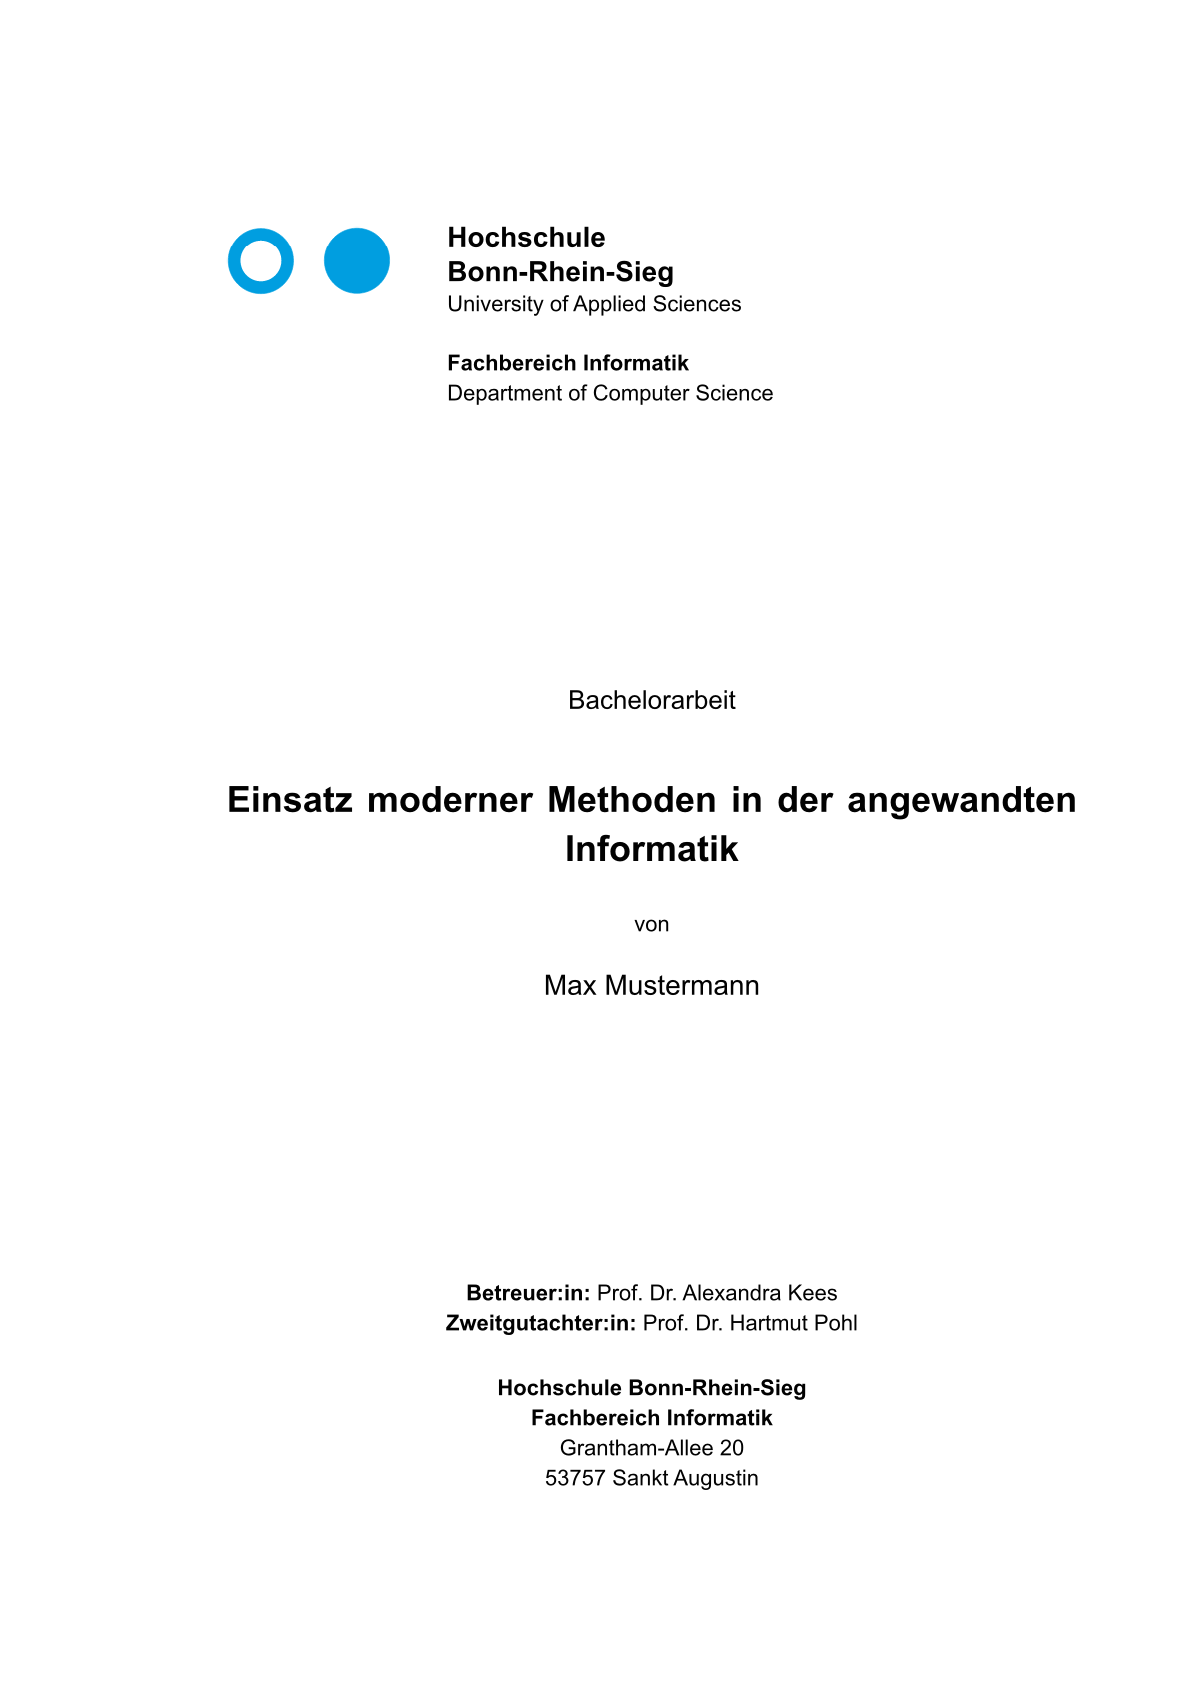
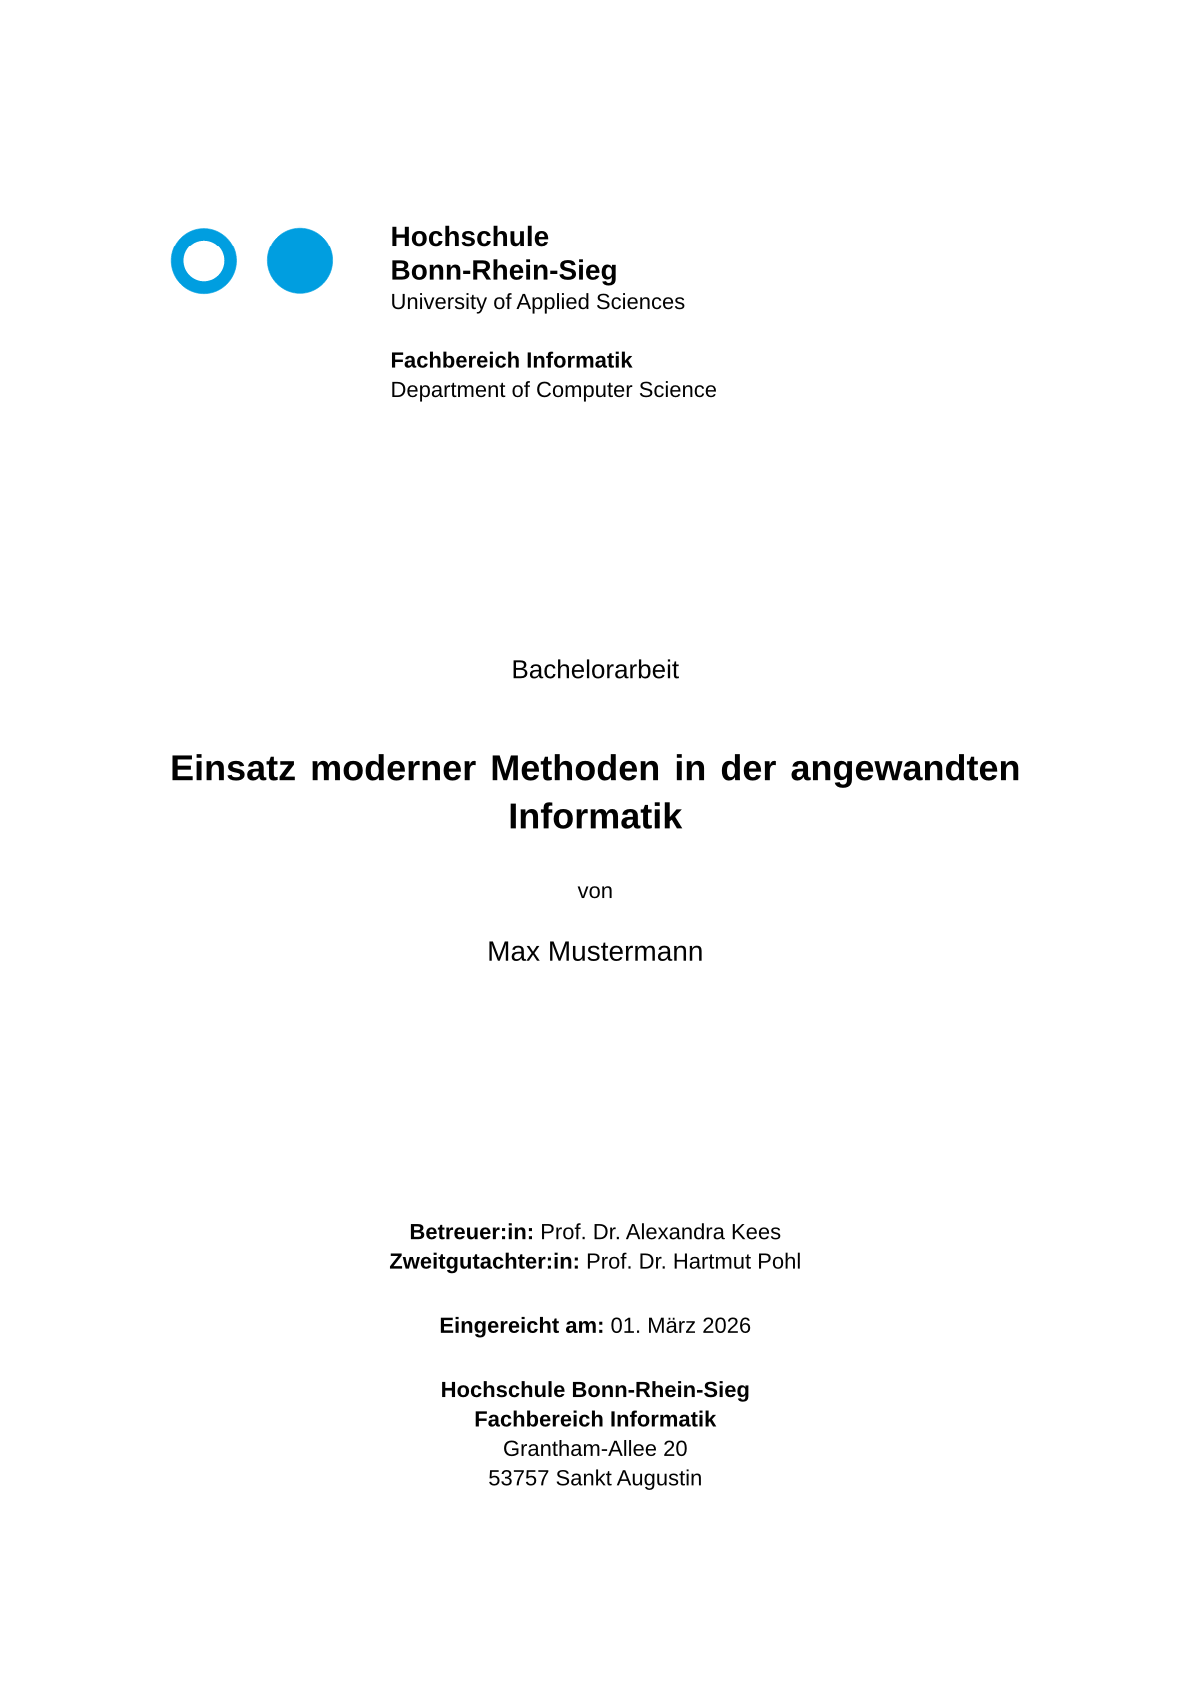
h-brs-thesis-unofficial 0.2.0

diff --git a/README.md b/README.md
@@ -6,7 +6,7 @@ Thesis template for Hochschule Bonn-Rhein-Sieg, based on [Regeln für wissenscha
 ## Minimal Example
 
 ```typst
-#import "@preview/h-brs-thesis-unofficial:0.1.2": template
+#import "@preview/h-brs-thesis-unofficial:0.2.0": template
 
 #show: template.with(
   title: "Titel der Arbeit",
